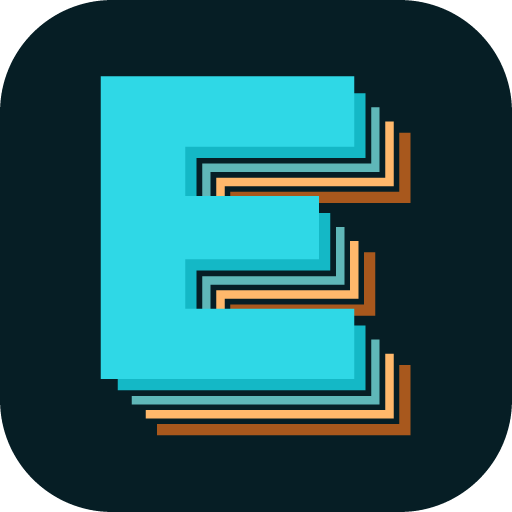
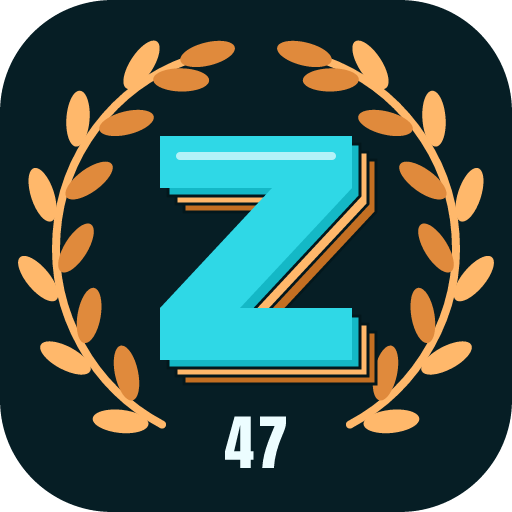
Marka adını ZELA 47 yap, yeni çelenkli Z logosu
Sitedeki tüm metinler, başlıklar, paylaşım bilgileri, baskı dokuları,
anahtarlık modeli, sekme/telefon ikonları ve paylaşım görseli yeni ada
göre güncellendi. Logo: Roma zafer çelengi içinde katmanlı Z ve 47.

diff --git a/src/components/Navbar.jsx b/src/components/Navbar.jsx
@@ -11,48 +11,83 @@ const LINKS = [
   ['/iletisim', 'İletişim']
 ]
 
-// Logo: 3D yazıcıdan çıkmış gibi katman katman üst üste binen E.
-// Arkadaki katman kayısı, öndeki turkuaz. favicon.svg ve paylaşım görseli de aynı çizimi kullanır
-const E = 'M20 16H92V36H44V50H82V68H44V82H92V102H20Z'
+// Logo (ZELA 47): Roma zafer çelengi içinde 3D yazıcıdan çıkmış gibi katman katman basılmış Z, altta 47.
+// Hikâye: Sezar "Veni, vidi, vici" sözünü M.Ö. 47'de Zela'da (bugünkü Zile, Tokat) söyledi.
+// favicon.svg ve paylaşım görseli de aynı çizimi kullanır
+const Z = 'M36 32H84V45L56 75H84V88H36V75L64 45H36Z'
 const LAYERS = [
-  [16, '#7a3f12'],
-  [14, '#a8581d'],
-  [12, '#d97f33'],
-  [10, '#ffb86b'],
-  [8, '#c9a77a'],
-  [6, '#5fb7b8'],
-  [4, '#14b8c6'],
-  [2, '#22c9d6'],
+  [6, '#c46f22'],
+  [4, '#ffb86b'],
+  [2, '#14b8c6'],
   [0, '#2fd8e6']
 ]
+// Çelenk: merkez (60,60), yarıçap 50; sol dal aşağıdan yukarı, sağ dal aynası
+const R = 50
+const at = (deg, r = R) => [60 + r * Math.cos((deg * Math.PI) / 180), 60 + r * Math.sin((deg * Math.PI) / 180)]
+// [açı, dala uzaklık (+ dış / - iç), eğim]: yapraklar çift çift, dalın büyüdüğü yöne doğru; sonda uç yaprağı
+const LEAVES = [
+  [128, 5, -32], [136, -5, 32], [150, 5, -32], [158, -5, 32], [172, 5, -32], [180, -5, 32],
+  [194, 5, -32], [202, -5, 32], [216, 5, -32], [224, -5, 32], [238, 4, -25], [246, -4, 25], [256, 0, 0]
+]
+const [sx, sy] = at(118)
+const [ex, ey] = at(250)
+const STEM = `M${sx} ${sy}A${R} ${R} 0 0 1 ${ex} ${ey}`
 
-// animated: katmanlar alttan üste doğru tek tek "basılır" (açılış ekranı)
-export function EMark({ className, animated = false }) {
+function Branch({ animated, mirror }) {
   return (
-    <svg className={className} viewBox="16 12 96 108" aria-hidden="true">
+    <g transform={mirror ? 'translate(120 0) scale(-1 1)' : undefined}>
+      <path d={STEM} fill="none" stroke="#ffb86b" strokeWidth="2" strokeLinecap="round" />
+      {LEAVES.map(([deg, off, tilt], i) => {
+        const [x, y] = at(deg, R + off)
+        return (
+          <motion.ellipse
+            key={deg}
+            cx={x}
+            cy={y}
+            rx="7"
+            ry="2.9"
+            fill={off > 0 ? '#ffb86b' : '#e08a3c'}
+            transform={`rotate(${deg + 90 + tilt} ${x} ${y})`}
+            initial={animated ? { opacity: 0 } : false}
+            animate={{ opacity: 1 }}
+            transition={{ delay: 0.05 + i * 0.03, duration: 0.25 }}
+          />
+        )
+      })}
+    </g>
+  )
+}
+
+// animated: çelenk yaprakları sırayla belirir, Z'nin katmanları tek tek "basılır" (açılış ekranı)
+export function ZMark({ className, animated = false }) {
+  return (
+    <svg className={className} viewBox="0 0 120 120" aria-hidden="true">
+      <Branch animated={animated} />
+      <Branch animated={animated} mirror />
       {LAYERS.map(([d, fill], i) => (
         <motion.g
           key={d}
-          initial={animated ? { opacity: 0, y: -10 } : false}
+          initial={animated ? { opacity: 0, y: -8 } : false}
           animate={{ opacity: 1, y: 0 }}
-          transition={{ delay: 0.05 + i * 0.06, duration: 0.3, ease: [0.22, 1, 0.36, 1] }}
+          transition={{ delay: 0.3 + i * 0.07, duration: 0.3, ease: [0.22, 1, 0.36, 1] }}
         >
-          <path d={E} transform={`translate(${d} ${d})`} fill={fill} stroke={d && d < 16 ? '#03171c' : 'none'} strokeWidth="0.7" />
+          <path d={Z} transform={`translate(${d} ${d})`} fill={fill} stroke={d ? '#03171c' : 'none'} strokeWidth="0.7" />
         </motion.g>
       ))}
-      <path d="M26 22H86" stroke="#ecfdff" strokeWidth="2" strokeLinecap="round" opacity="0.7" />
+      <path d="M41 37H79" stroke="#ecfdff" strokeWidth="2" strokeLinecap="round" opacity="0.7" />
+      <text x="60" y="115" textAnchor="middle" fontFamily="Anton, Impact, sans-serif" fontSize="15" letterSpacing="1" fill="#ecfdff">
+        47
+      </text>
     </svg>
   )
 }
 
+// Menüde ve alt kısımda yalnızca işaret durur (yanında yazı yok)
 export function Logo() {
   return (
-    <span className="logo">
-      <EMark />
-      <span className="logo__text">
-        <small>THE</small>
-        EXPENDABLES
-      </span>
+    <span className="logo" title="ZELA 47">
+      <ZMark />
+      <span className="sr-only">ZELA 47</span>
     </span>
   )
 }

diff --git a/src/data/site.js b/src/data/site.js
@@ -1,7 +1,7 @@
 // Mağaza ve şirket bilgileri. Boş bırakılan alanlar sitede gösterilmez.
 export const SITE = {
-  name: 'The Expendables',
-  company: '', // Resmî şirket unvanı (ör. "Ad Soyad - The Expendables" veya "X Ltd. Şti.")
+  name: 'ZELA 47',
+  company: '', // Resmî şirket unvanı (ör. "Ad Soyad - ZELA 47" veya "X Ltd. Şti.")
   taxInfo: '', // Vergi dairesi ve numarası
   email: 'hasanatak.2105315@gmail.com',
   phone: '', // ör. '+90 5xx xxx xx xx'
@@ -9,20 +9,20 @@ export const SITE = {
   address: 'Tokat Merkez, Türkiye',
   hours: 'Hafta içi 09:00 – 18:00',
   instagram: '#',
-  url: 'https://theexpendables.com.tr', // Sitenin yayındaki adresi (sitemap ve paylaşım görseli için)
+  url: 'https://zela47.com.tr', // Sitenin yayındaki adresi (sitemap ve paylaşım görseli için). Alan adı henüz alınmadı
   analyticsId: '' // Google Analytics 4 ölçüm kimliği (ör. 'G-XXXXXXX'). Boşsa analytics ve çerez bandı kapalıdır
 }
 
 // Sayfa adresleri, başlıkları ve Google'da görünecek açıklamaları
 export const ROUTES = {
-  '/': ['The Expendables — Baskılı Giyim ve 3D Baskı', 'Kendi tasarımlarımızla baskılı tişört, sweatshirt ve eşofmanlar, kişiye özel baskı ve 3D baskı tasarımlar. 1.500 ₺ üzeri ücretsiz kargo.'],
+  '/': ['ZELA 47 — Baskılı Giyim ve 3D Baskı', 'Kendi tasarımlarımızla baskılı tişört, sweatshirt ve eşofmanlar, kişiye özel baskı ve 3D baskı tasarımlar. 1.500 ₺ üzeri ücretsiz kargo.'],
   '/hakkimizda': ['Hakkımızda', 'Baskılı giyim ile 3D baskı tasarımlarını aynı atölyede buluşturan Tokat merkezli bir marka. Hikâyemiz ve üretim sürecimiz.'],
   '/iletisim': ['İletişim', 'Sipariş, kişiye özel baskı ya da iade için bize ulaş. WhatsApp destek hattı ve e-posta ile en geç bir iş günü içinde dönüyoruz.'],
   '/sss': ['Sıkça Sorulan Sorular', 'Kargo süresi, beden seçimi, kumaş ve yıkama, kişiye özel baskı, ödeme ve iade hakkında sık sorulan sorular.'],
   '/iade': ['İade ve Değişim', '30 gün içinde koşulsuz iade. İade adımları, iade edilemeyen ürünler ve değişim koşulları.'],
   '/kvkk': ['KVKK Aydınlatma Metni', '6698 sayılı KVKK kapsamında kişisel verilerinin nasıl işlendiğine dair aydınlatma metni.'],
   '/gizlilik': ['Gizlilik ve Çerez Politikası', 'Hangi bilgileri topladığımız, çerezleri nasıl kullandığımız ve verilerini nasıl koruduğumuz.'],
-  '/kullanim-kosullari': ['Kullanım Koşulları', 'The Expendables internet sitesinin kullanım koşulları.'],
+  '/kullanim-kosullari': ['Kullanım Koşulları', 'ZELA 47 internet sitesinin kullanım koşulları.'],
   '/mesafeli-satis': ['Mesafeli Satış Sözleşmesi', 'Ön bilgilendirme formu ve mesafeli satış sözleşmesi.']
 }
 

diff --git a/src/styles.css b/src/styles.css
@@ -1,5 +1,5 @@
 /* ============================================================
-   THE EXPENDABLES — renk paleti ve tasarım
+   ZELA 47 — renk paleti ve tasarım
    Renkleri değiştirmek için aşağıdaki değişkenleri düzenleyin.
    ============================================================ */
 :root {
@@ -72,9 +72,8 @@ main, .footer { position: relative; z-index: 1; }
 .nav--solid { background: rgba(3, 23, 28, 0.86); backdrop-filter: blur(16px); border-color: var(--line); }
 .nav__inner { display: flex; align-items: center; justify-content: space-between; height: 76px; gap: 20px; }
 .logo { display: inline-flex; white-space: nowrap; align-items: center; gap: 10px; color: var(--text); }
-.logo svg { width: 32px; height: 36px; filter: drop-shadow(0 0 10px rgba(47, 216, 230, 0.35)); }
-.logo__text { display: flex; flex-direction: column; font-family: var(--font-logo); font-size: 1.45rem; letter-spacing: 0.07em; line-height: 1; }
-.logo__text small { font-family: var(--font-body); font-weight: 600; font-size: 0.5rem; letter-spacing: 0.5em; color: var(--accent-2); margin-bottom: 3px; }
+.logo svg { width: 56px; height: 56px; filter: drop-shadow(0 0 10px rgba(47, 216, 230, 0.3)); }
+.sr-only { position: absolute; width: 1px; height: 1px; padding: 0; margin: -1px; overflow: hidden; clip: rect(0, 0, 0, 0); white-space: nowrap; border: 0; }
 .nav__links { display: flex; gap: 6px; }
 .nav__links button { padding: 8px 14px; font-size: 0.85rem; letter-spacing: 0.08em; text-transform: uppercase; color: var(--muted); position: relative; transition: color 0.3s; }
 .nav__links button::after { content: ''; position: absolute; left: 14px; right: 14px; bottom: 4px; height: 1px; background: var(--accent); transform: scaleX(0); transform-origin: right; transition: transform 0.5s var(--ease); }
@@ -433,8 +432,7 @@ main, .footer { position: relative; z-index: 1; }
   .burger { display: flex; }
   .cart-btn span { display: none; }
   .cart-btn { padding: 9px 10px 9px 12px; }
-  .logo svg { width: 26px; height: 30px; }
-  .logo__text { font-size: 1.2rem; }
+  .logo svg { width: 46px; height: 46px; }
   .hero__shade { background: linear-gradient(180deg, rgba(3, 23, 28, 0.75) 0%, rgba(3, 23, 28, 0.15) 60%, rgba(3, 23, 28, 0.7) 100%); }
   .hero__content { justify-content: flex-start; padding-top: 120px; }
   .hero__title { font-size: clamp(2.9rem, 13.5vw, 4.4rem); }

diff --git a/index.html b/index.html
@@ -4,21 +4,21 @@
     <meta charset="UTF-8" />
     <meta name="viewport" content="width=device-width, initial-scale=1.0, viewport-fit=cover" />
     <meta name="theme-color" content="#03171c" />
-    <title>The Expendables — Baskılı Giyim ve 3D Baskı</title>
+    <title>ZELA 47 — Baskılı Giyim ve 3D Baskı</title>
     <meta name="description" content="Kendi tasarımlarımızla baskılı tişört, sweatshirt ve eşofmanlar, kişiye özel baskı ve 3D baskı tasarımlar. 1.500 ₺ üzeri ücretsiz kargo." />
-    <link rel="canonical" href="https://theexpendables.com.tr/" />
+    <link rel="canonical" href="https://zela47.com.tr/" />
 
     <!-- Paylaşım önizlemesi (WhatsApp, Instagram, X, Facebook) -->
     <meta property="og:type" content="website" />
     <meta property="og:locale" content="tr_TR" />
-    <meta property="og:site_name" content="The Expendables" />
-    <meta property="og:title" content="The Expendables — Baskılı Giyim ve 3D Baskı" />
+    <meta property="og:site_name" content="ZELA 47" />
+    <meta property="og:title" content="ZELA 47 — Baskılı Giyim ve 3D Baskı" />
     <meta property="og:description" content="Baskılı tişört, sweatshirt ve eşofmanlar, kişiye özel baskı ve 3D baskı tasarımlar. 1.500 ₺ üzeri ücretsiz kargo." />
-    <meta property="og:url" content="https://theexpendables.com.tr/" />
-    <meta property="og:image" content="https://theexpendables.com.tr/og-image.png" />
+    <meta property="og:url" content="https://zela47.com.tr/" />
+    <meta property="og:image" content="https://zela47.com.tr/og-image.png" />
     <meta property="og:image:width" content="1200" />
     <meta property="og:image:height" content="630" />
-    <meta property="og:image:alt" content="The Expendables — marka baskılı tişört ve “Tarzın bir detay değil, bir imza.” yazısı" />
+    <meta property="og:image:alt" content="ZELA 47 — marka baskılı tişört ve “Tarzın bir detay değil, bir imza.” yazısı" />
     <meta name="twitter:card" content="summary_large_image" />
 
     <link rel="icon" type="image/svg+xml" href="/favicon.svg" />

diff --git a/src/components/Loader.jsx b/src/components/Loader.jsx
@@ -1,10 +1,10 @@
 import { useEffect, useState } from 'react'
 import { motion } from 'motion/react'
-import { EMark } from './Navbar'
+import { ZMark } from './Navbar'
 
-const TITLE = 'THE EXPENDABLES'
+const TITLE = 'ZELA 47'
 
-// Açılış ekranı: katman katman basılan E, harf harf beliren marka adı ve sayaç; sonra perde gibi yukarı kalkar
+// Açılış ekranı: çelenk ve katman katman basılan Z, harf harf beliren marka adı ve sayaç; sonra perde gibi yukarı kalkar
 export default function Loader({ onDone }) {
   const [n, setN] = useState(0)
 
@@ -28,7 +28,7 @@ export default function Loader({ onDone }) {
       initial={{ y: 0 }}
       exit={{ y: '-100%', transition: { duration: 0.6, ease: [0.76, 0, 0.24, 1] } }}
     >
-      <EMark className="loader__mark" animated />
+      <ZMark className="loader__mark" animated />
       <div className="loader__title" aria-label={TITLE}>
         {TITLE.split('').map((c, i) => (
           <motion.span

diff --git a/src/three/Models.jsx b/src/three/Models.jsx
@@ -137,12 +137,17 @@ function Keychain(props) {
         <circleGeometry args={[0.09, 24]} />
         <Dark />
       </mesh>
-      <mesh position={[0.18, 0.16, 0.08]}>
-        <boxGeometry args={[0.6, 0.12, 0.04]} />
+      {/* ZELA 47'nin Z harfi */}
+      <mesh position={[0.18, 0.19, 0.08]}>
+        <boxGeometry args={[0.5, 0.1, 0.04]} />
         <Pla color="#0e5a66" />
       </mesh>
-      <mesh position={[0.18, -0.08, 0.08]}>
-        <boxGeometry args={[0.13, 0.4, 0.04]} />
+      <mesh position={[0.18, 0, 0.08]} rotation-z={0.66}>
+        <boxGeometry args={[0.56, 0.1, 0.04]} />
+        <Pla color="#0e5a66" />
+      </mesh>
+      <mesh position={[0.18, -0.19, 0.08]}>
+        <boxGeometry args={[0.5, 0.1, 0.04]} />
         <Pla color="#0e5a66" />
       </mesh>
       <mesh position={[-0.42, 0, 0]} rotation-y={PI / 2}>

diff --git a/src/components/Pages.jsx b/src/components/Pages.jsx
@@ -58,7 +58,7 @@ export function About() {
     <Page
       eyebrow="Hakkımızda"
       title={<>Küçük bir atölye, <em>büyük bir özen</em></>}
-      intro="The Expendables, baskılı giyim ile 3D baskı tasarımları aynı çatı altında buluşturan Tokat merkezli bir atölye. Seri üretim yerine, her parçaya ayrı ayrı zaman ayırmayı seçiyoruz."
+      intro="ZELA 47, baskılı giyim ile 3D baskı tasarımları aynı çatı altında buluşturan Tokat merkezli bir atölye. Adımızı Jül Sezar'ın M.Ö. 47'de Zela'da, bugünkü Zile'de söylediği “Veni, vidi, vici” (Geldim, gördüm, yendim) sözünden aldık. Seri üretim yerine, her parçaya ayrı ayrı zaman ayırmayı seçiyoruz."
     >
       <div className="values">
         {VALUES.map(([t, d], i) => (

diff --git a/src/components/Sections.jsx b/src/components/Sections.jsx
@@ -231,10 +231,10 @@ export function Footer() {
           </div>
         </div>
         <div className="footer__giant" aria-hidden="true">
-          EXPENDABLES
+          ZELA 47
         </div>
         <div className="footer__bottom">
-          <span>© {new Date().getFullYear()} The Expendables. Tüm hakları saklıdır.</span>
+          <span>© {new Date().getFullYear()} ZELA 47. Tüm hakları saklıdır.</span>
           <span>
             <Link to="/kvkk">KVKK</Link> · <Link to="/gizlilik">Gizlilik ve Çerezler</Link> · <Link to="/kullanim-kosullari">Kullanım Koşulları</Link> ·{' '}
             <Link to="/mesafeli-satis">Mesafeli Satış Sözleşmesi</Link>

diff --git a/src/three/Apparel.jsx b/src/three/Apparel.jsx
@@ -66,7 +66,7 @@ export function printTexture(text, ink) {
     c.fillRect(392, 320, 240, 5)
     c.font = '700 46px "Manrope", sans-serif'
     if ('letterSpacing' in c) c.letterSpacing = '14px'
-    c.fillText('THE EXPENDABLES', 512, 410, 960)
+    c.fillText('VENI · VIDI · VICI', 512, 410, 960)
     tex.needsUpdate = true
   }
   draw()
@@ -107,7 +107,7 @@ function Collar({ color }) {
   )
 }
 
-export function Tshirt({ color = '#f1ece2', print = 'Expendables', ...props }) {
+export function Tshirt({ color = '#f1ece2', print = 'Zela 47', ...props }) {
   const geo = useMemo(() => extrude(pattern(TEE)), [])
   return (
     <group {...props}>

diff --git a/src/components/Extras.jsx b/src/components/Extras.jsx
@@ -61,7 +61,7 @@ export const WhatsAppIcon = () => (
 
 // Sağ altta sabit duran destek butonu. site.js içinde whatsapp numarası yoksa görünmez
 export function WhatsAppButton() {
-  const href = whatsappLink('Merhaba, The Expendables sitesinden yazıyorum.')
+  const href = whatsappLink('Merhaba, ZELA 47 sitesinden yazıyorum.')
   if (!href) return null
   return (
     <a className="wa-btn" href={href} target="_blank" rel="noopener" aria-label="WhatsApp destek hattı">

diff --git a/vite.config.js b/vite.config.js
@@ -7,7 +7,7 @@ function seoFiles() {
   return {
     name: 'seo-files',
     // index.html içindeki site adresini site.js'teki adresle eşitle
-    transformIndexHtml: (html) => html.replaceAll('https://theexpendables.com.tr', SITE.url),
+    transformIndexHtml: (html) => html.replaceAll('https://zela47.com.tr', SITE.url),
     generateBundle() {
       const today = new Date().toISOString().slice(0, 10)
       const urls = Object.keys(ROUTES)

diff --git a/src/data/products.js b/src/data/products.js
@@ -15,7 +15,7 @@ export const PRODUCTS = [
     category: 'Giyim',
     model: 'tshirt',
     color: '#f1ece2',
-    print: 'Expendables',
+    print: 'Zela 47',
     sizes: SIZES,
     price: 449,
     oldPrice: 549,
